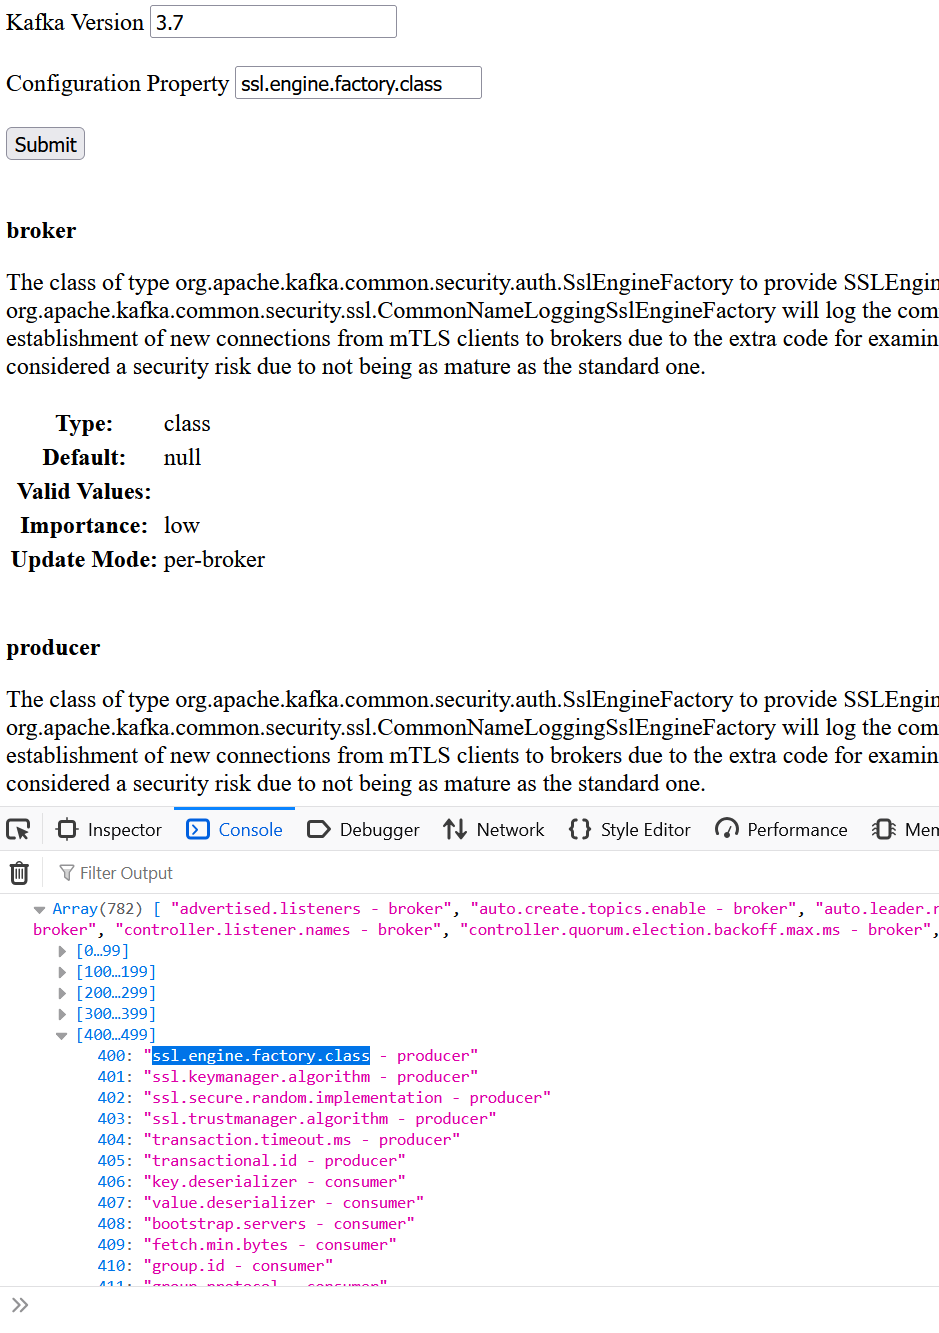
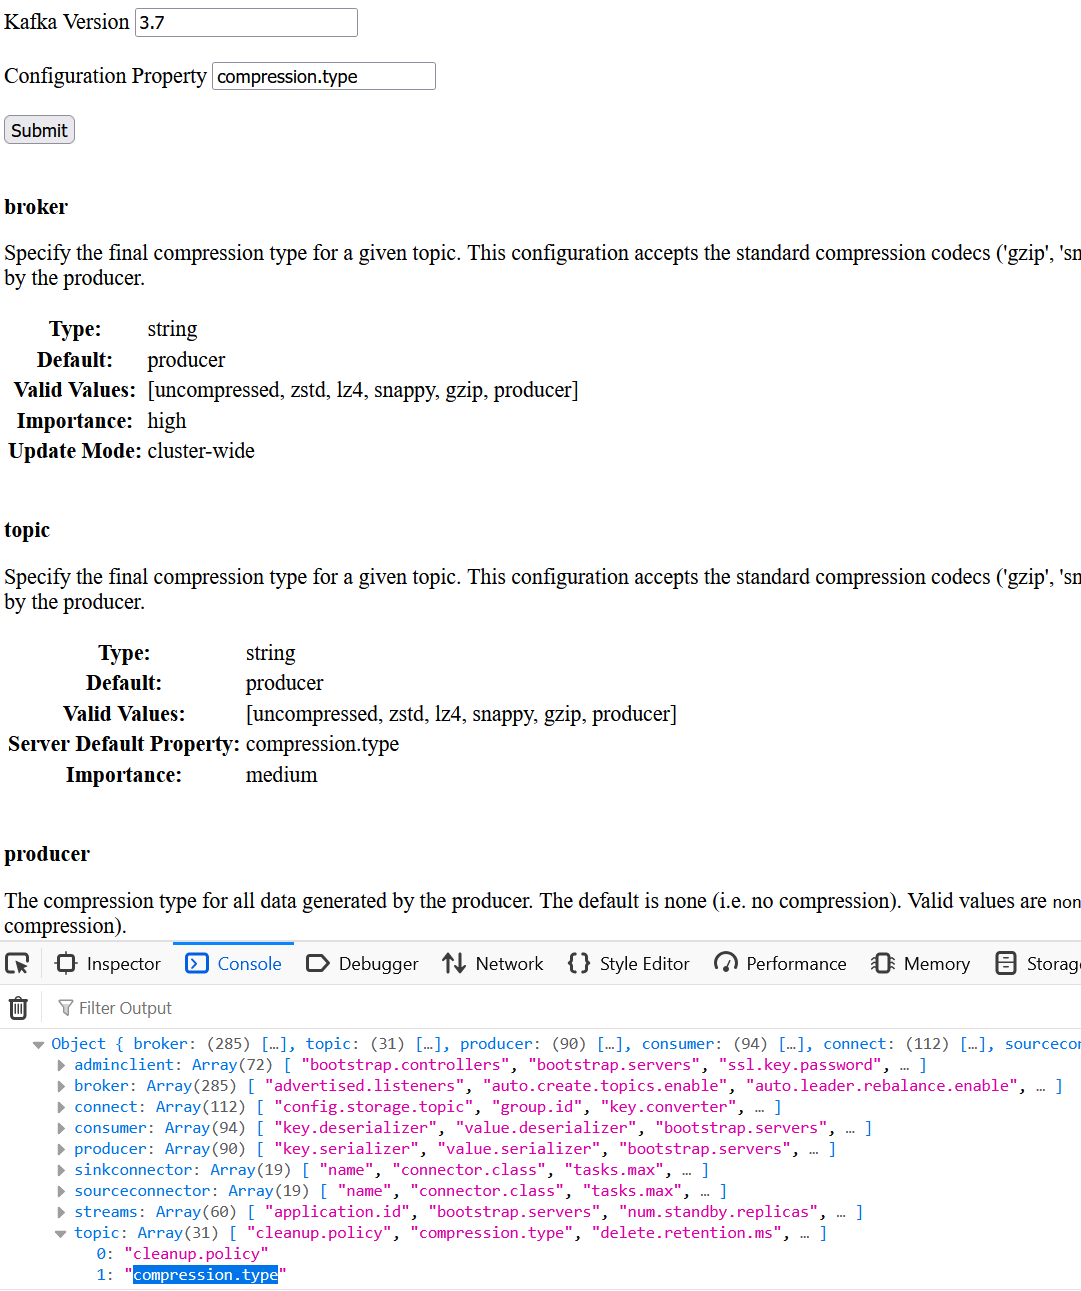
Show property-map and default version

diff --git a/tools/1.Doc_Search/config-param-assigner.html b/tools/1.Doc_Search/config-param-assigner.html
@@ -39,16 +39,20 @@
           class KafkaDocContainer {
             version;
             content;
+            propertyMap;
 
-            constructor(version, content) {
+            constructor(version, content, propertyMap) {
               this.version = version;
               this.content = content;
+              this.propertyMap = propertyMap;
             }
           }
 
           class KafkaDocService {
 
             static kafkaDocContainer = null;
+
+            static DEFAULT_VERSION = "37";
 
             static setElements(version, property, elementConsumer) {
               KafkaDocService.getKafkaDoc(version)
@@ -68,16 +72,18 @@
                 });
             }
 
-            static getAllParameters(t) {
-              const parameters = t.split('\n')
+            static getPropertyMap(t) {
+              const propertyList = t.split('\n')
                 .filter((x) => x.includes('<a id="') && x.includes('configs_') && x.includes(' href="#'))
                 .map((x) => {
-                  const parameterStartIndex = KafkaDocService.indexOfSubstringAfter(x, '<a id="');
-                  const parameterEndIndexExclusive = x.indexOf('configs_');
-                  return x.substring(parameterStartIndex, parameterEndIndexExclusive)
-                    .replace('"></a><a id="', ' - ');
+                  const propertyStartIndex = KafkaDocService.indexOfSubstringAfter(x, '<a id="');
+                  const propertyEndIndexExclusive = x.indexOf('configs_');
+                  return x.substring(propertyStartIndex, propertyEndIndexExclusive)
+                    .replace('"></a><a id="', '-').split('-');
                 });
-                return KafkaDocService.listToSet(parameters);
+                const propertySet = KafkaDocService.listToSet(propertyList);
+                const propertyMap = KafkaDocService.setToMap(propertySet);
+                return propertyMap;
             }
 
             static indexOfSubstringAfter(s, s0) {
@@ -88,13 +94,27 @@
               return array.filter((x, i) => array.indexOf(x) === i);
             }
 
-            static async getKafkaDoc(version) {
+            static setToMap(array) {
+              const map = {};
+              array.forEach((entry) => {
+                const value = entry[0];
+                const key = entry[1];
+                if (map[key] === null || map[key] === undefined) {
+                  map[key] = [];
+                }
+                map[key].push(value);
+              })
+              return map;
+            }
+
+            static async getKafkaDoc(version_) {
+              const version = (version_ === null || version_ === undefined) ? KafkaDocService.DEFAULT_VERSION : version_;
               if (KafkaDocService.kafkaDocContainer === null || KafkaDocService.kafkaDocContainer.version !== version) {
                 await RestController.get("https://kafka.apache.org/" + version + "/documentation/", null)
                 .then((content) => {
-                  KafkaDocService.kafkaDocContainer = new KafkaDocContainer(version, content);
-                  const parameters = KafkaDocService.getAllParameters(content);
-                  console.log(parameters);
+                  const propertyMap = KafkaDocService.getPropertyMap(content);
+                  console.log(propertyMap);
+                  KafkaDocService.kafkaDocContainer = new KafkaDocContainer(version, content, propertyMap);
                 });
               }
               return KafkaDocService.kafkaDocContainer.content; 
@@ -131,6 +151,10 @@
               KafkaDocService.setElements(version, property, elementConsumer);
             }
 
+            static setPropertyMap(propertyMap) {
+              document.getElementById('property-map').innerHTML = JSON.parse(JSON.stringify(propertyMap));
+            }
+
             static removeChildren(element) {
               while (element.hasChildNodes()) {
                 element.lastChild.remove();
@@ -159,11 +183,24 @@
             static getResults() {
               return document.getElementById('results');
             }
+
+            static runAfterLoadingDom(foo) {
+              return new Promise((resolve, reject) => {
+                document.addEventListener('DOMContentLoaded', () => {
+                  resolve(foo());
+                });
+              });
+            }
+
           }
 
           class App {
             static start() {
               DomService.setElements();
+            }
+
+            static setParameters() {
+              DomService.runAfterLoadingDom(KafkaDocService.getKafkaDoc);
             }
           }
 
@@ -172,12 +209,12 @@
   <body>
     <div id='kafka-version'>
       <label for='version'>Kafka Version</label>
-      <input type='text' name="'version">
+      <input type='text' name='version' value='3.7'>
     </div>
     <br />  
     <div id='property'>
       <label for='property'>Configuration Property</label>
-      <input type="text" name='property'>
+      <input type='text' name='property'>
     </div>
     <br />  
     <div id='submit'>
@@ -186,5 +223,8 @@
     <br />  
     <br />  
     <div id='results'></div>
+    <script>
+      App.setParameters();
+    </script>
   </body>
 </html>
